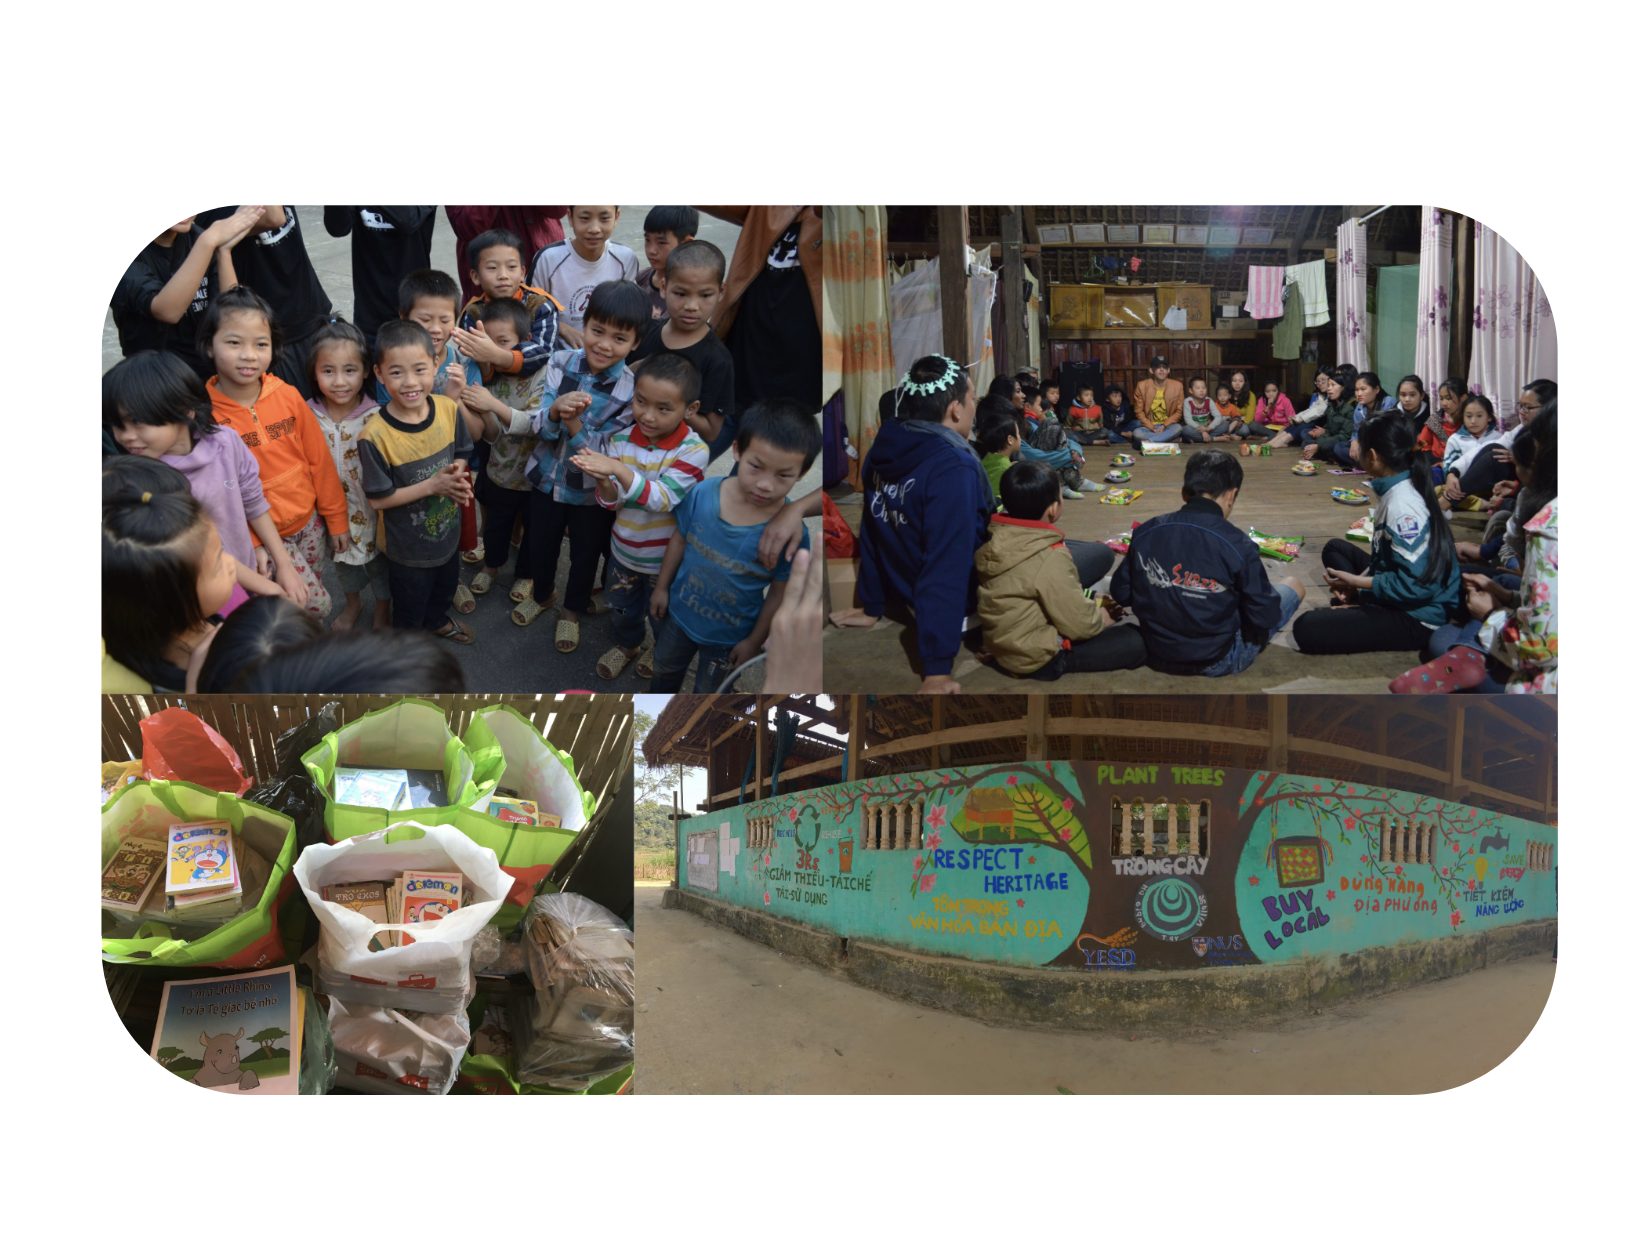
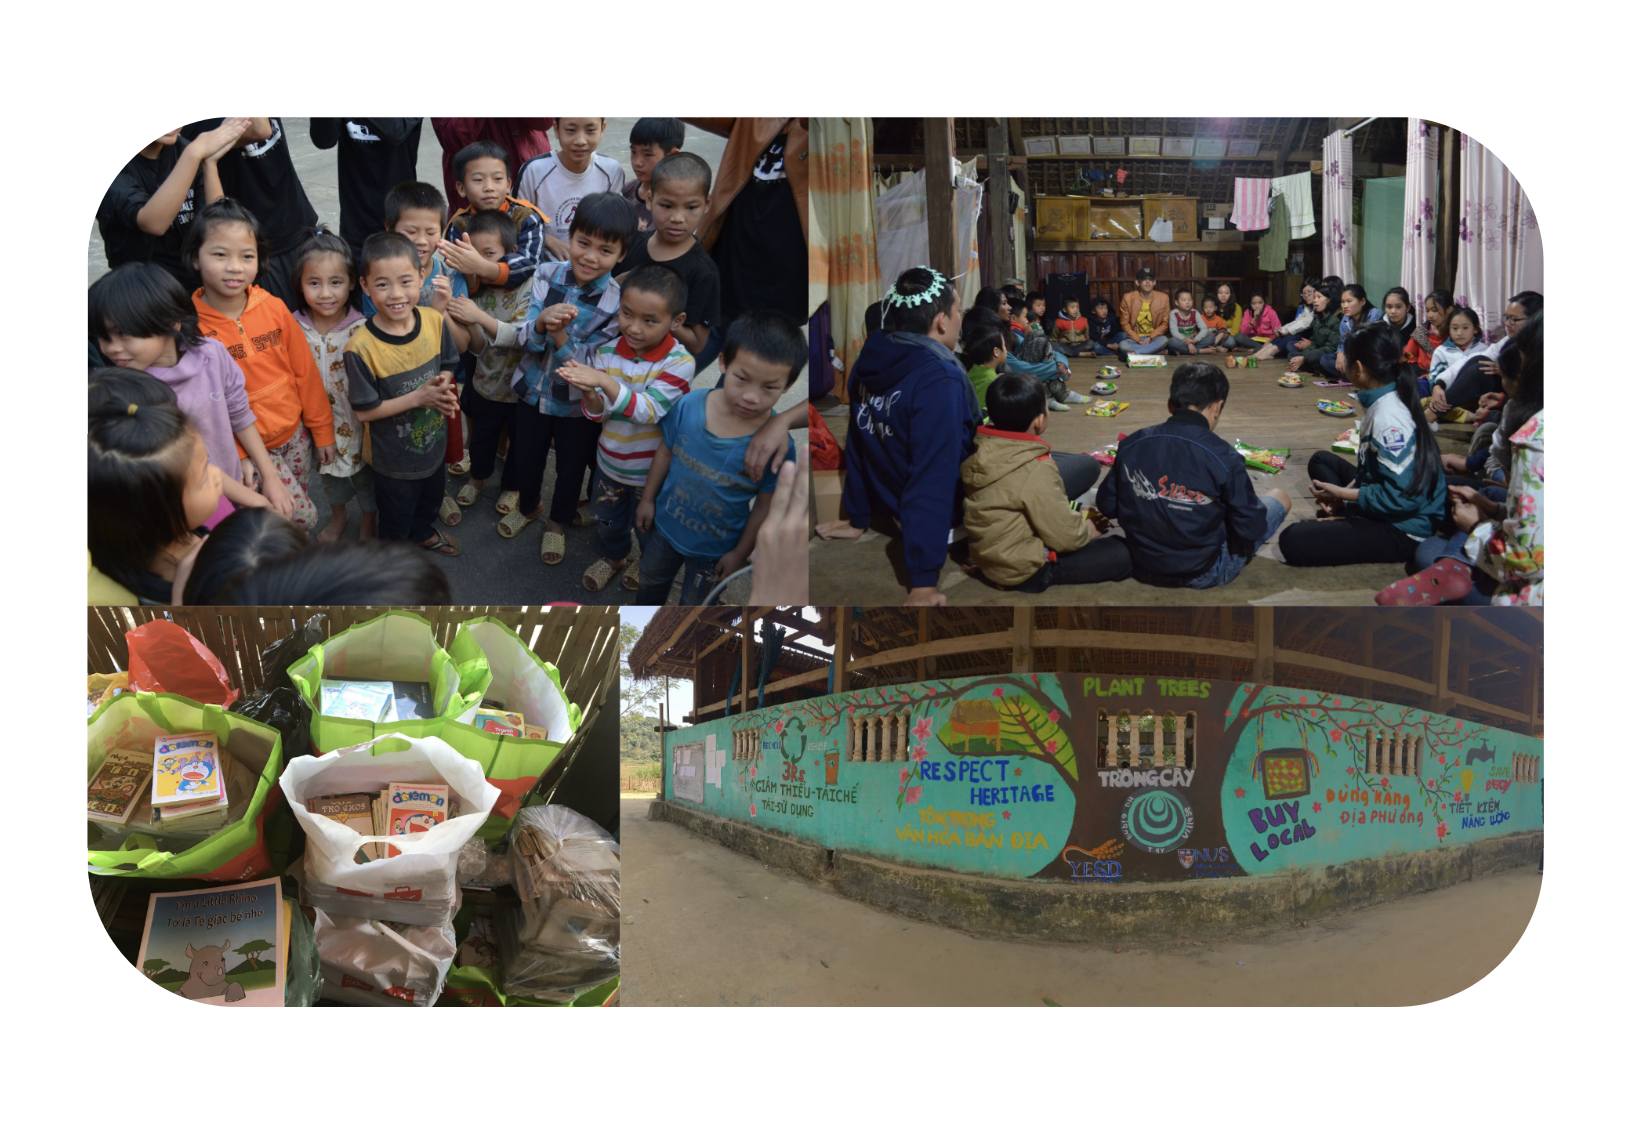
update projects

diff --git a/projects.html b/projects.html
@@ -11,7 +11,7 @@
 <body class="body">
     <div class="w3-content" style="max-width:1400px">
     <!-- Header -->
-        <header class="w3-container w3-center w3-padding-32"> 
+        <header class="w3-container w3-center w3-padding-20"> 
         <h1 style="color: white;"><b>ZOE'S PROJECTS</b></h1>
           <p style="text-align:center; color: white;"><a style="color: white;" href="index.html">home</a> | <a style="color: rgb(194, 234, 254);" href="projects.html">projects</a> | <a style="color: white;" href="blog.html">blog</a></p>
         </header>
@@ -20,12 +20,16 @@
         <div class="w3-col l4 project-container">
             <!-- This year project -->
             <div class="project">
-                <a href="https://zoelesv.github.io/airbnbnyc/"><img src="assets/images/eda.png" alt="Project 1"></a>
-                <div class="title">Airbnb NYC Data Analysis</div>
+                <img src="assets/images/eda.png" alt="Project 1">
+                <a href="https://zoelesv.github.io/airbnbnyc/"><div class="overlay">
+                    <div class="title">Airbnb NYC Data Analysis</div>
+                </div></a>
             </div>
             <div class="project">
                 <img src="assets/images/grow.png" alt="Project 2">
-                <div class="title">Grow App</div>
+                <div class="overlay">
+                    <div class="title">Grow App</div>
+                </div>
             </div>
            
         </div>
@@ -33,11 +37,15 @@
             <!-- Last year project -->
             <div class="project">
                 <img src="assets/images/smathchat.png" alt="Project 1">
-                <div class="title">Smathchat</div>
+                <div class="overlay">
+                    <div class="title">Smathchat</div>
+                </div>
             </div>
             <div class="project">
                 <img src="assets/images/100days.png" alt="Project 2">
-                <div class="title">The 100-days project during quarantine</div>
+                <a href="https://zoelesv.github.io/sayhi/"><div class="overlay">
+                    <div class="title">The 100-days project during quarantine</div>
+                </div></a>
             </div>
             
         </div>
@@ -45,11 +53,24 @@
             <!-- This year project -->
             <div class="project">
                 <img src="assets/images/spices.png" alt="Project 1">
-                <div class="title">Spices</div>
+                <div class="overlay">
+                    <div class="title">Spices</div>
+                </div>
             </div>
             <div class="project">
-                <img src="assets/images/libraryforkids.png" alt="Project 2">
-                <div class="title">Community Project - A Library for kids</div>
+                <img src="assets/images/recipe.png" alt="Project 2">
+                <div class="overlay">
+                    <div class="title">EZ Recipes</div>
+                </div>
+            </div>
+        </div>
+    </div>
+    <div class="w3-row">
+        <h4 style="color: white; text-align: center;">Community Project</h4>
+        <div class="project">
+            <img src="assets/images/libraryforkids.png" alt="Project 2" style="height: 230px;">
+            <div class="overlay">
+                <div class="title">A Library for kids</div>
             </div>
         </div>
     </div>

diff --git a/index.html b/index.html
@@ -18,10 +18,10 @@
         <h3 style="align-content: left;">About me</h3>
         <p>Hi there! I'm a data science student at USF. I love working on projects and storytelling.</p>
         <h3 style="align-content: left;">Recently</h3>
-        <p>→ I joined the MSDS program at USF (Yay a new chapter!). I created this <a href="https://zoelesv.github.io/airbnbnyc/">website</a> to present our data analysis. It ended up being one of the top presentations in our class.🌱<i>(July 2023)</i></p>
-        <p>→ I was selected to become a section leader at Code In Place - half of CS106A at Stanford. This was my favorite learning and teaching experience. <i>(2021-2023)</i></p>
+        <p>→ I joined the MSDS program at USF (Yay a new chapter!🌱). I created this <a href="https://zoelesv.github.io/airbnbnyc/">website</a> to present our team's supercool data analysis. It ended up being one of the top presentations in our class. <i>(July 2023)</i></p>
+        <p>→ I was selected to become a section leader at Code In Place, which covers half of CS106A at Stanford 🌲. This experience was a dream come true and my favorite in terms of learning and teaching Python. I'm grateful for the teaching resources and the passionate students in my section. <i>(2021-2023)</i></p>
         <p>→ I moved to Silicon Valley just 3 months before the pandemic. During the lockdown, I began learning to code in Python and built my web app with Django. Following that, I was invited to participate in a startup project in Palo Alto, where I created mockups. This experience significantly enhanced my product design skills. <i>(2020 - 2021)</i></p>
-        <p>→ After graduating from Hanoi University, I relocated to Phu Quoc Island to work for a top company in my country (and to live my island life 🏝). I got my job offer before obtaining my degree, which was something I was very proud of. <i>(May 2018)</i></p>
+        <p>→ After graduating from Hanoi University, I relocated to Phu Quoc Island 🏝 to work for one of the top companies in Vietnam. In this corporate job, I utilized data to address challenges and aid the COO and GM in implementing impactful changes. I got my job offer before obtaining my degree, which was something I was very proud of. <i>(May 2018)</i></p>
     </div>
     <h5><a href="https://github.com/zoelesv"><span><i class="fa fa-github w3-xlarge w3-text-white"></i></span></a>&nbsp;
         <a href="https://linkedin.com/in/zoelesv"><span><i class="fa fa-linkedin w3-xlarge w3-text-white"></i></span></a>&nbsp;
